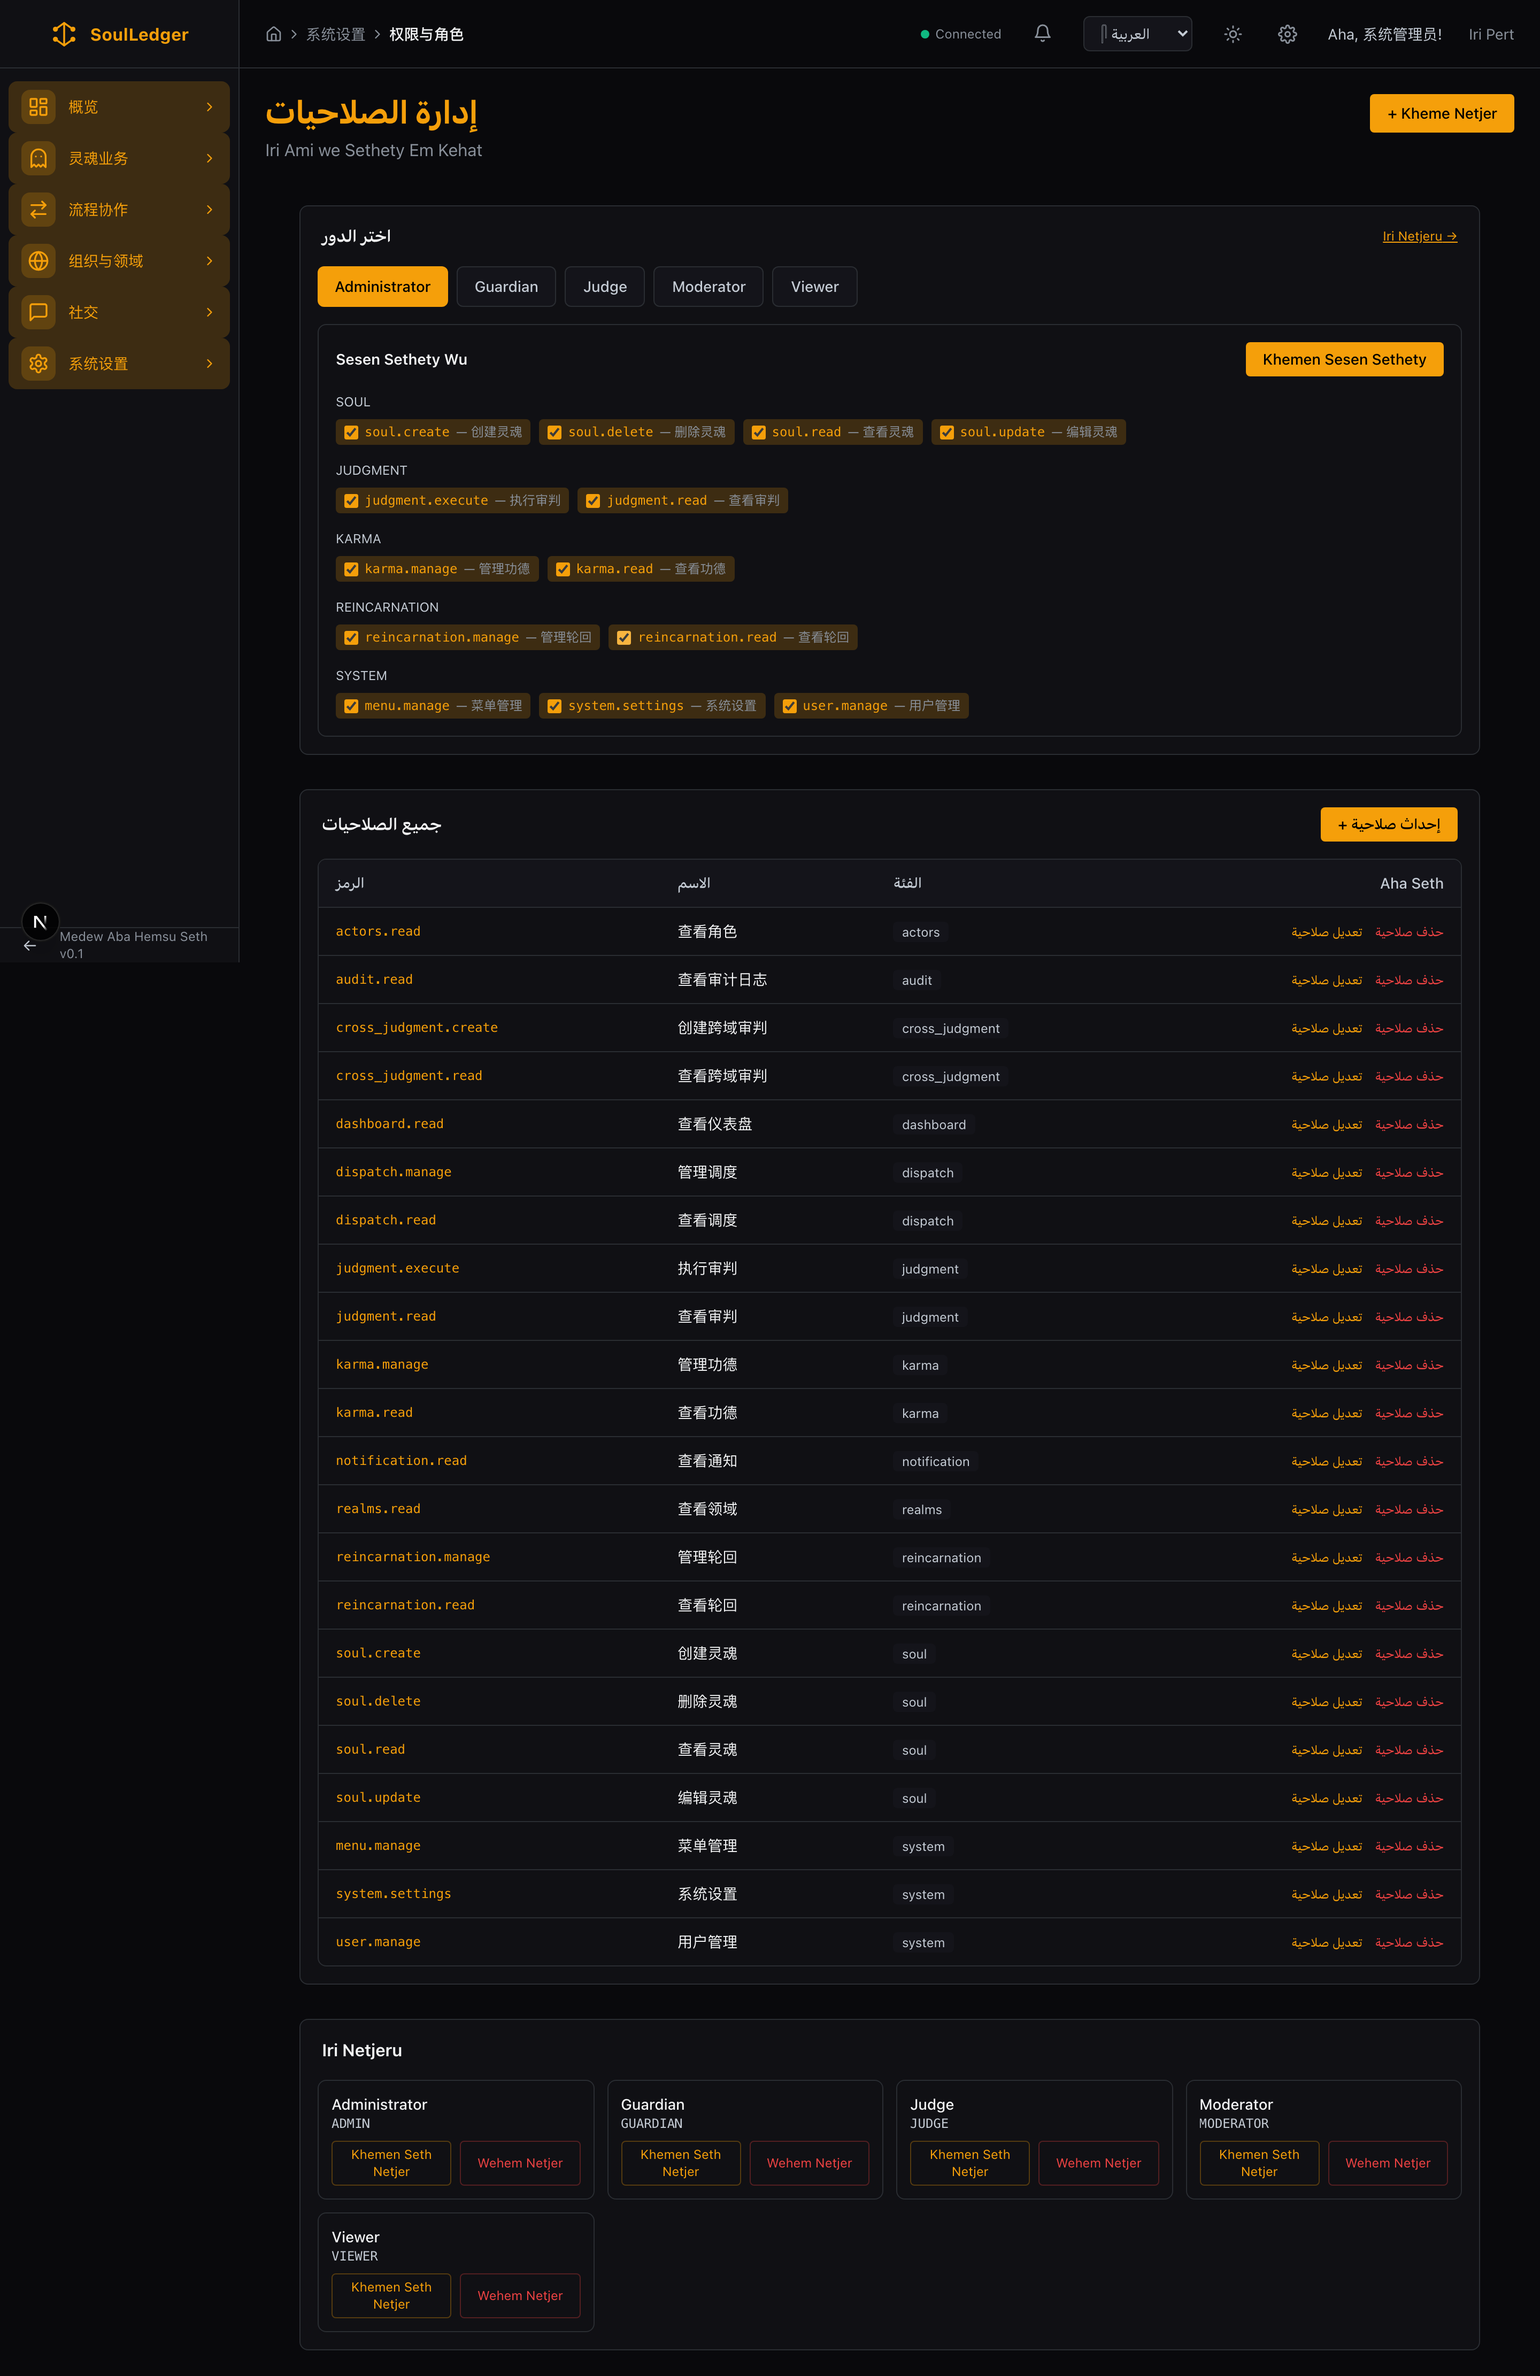
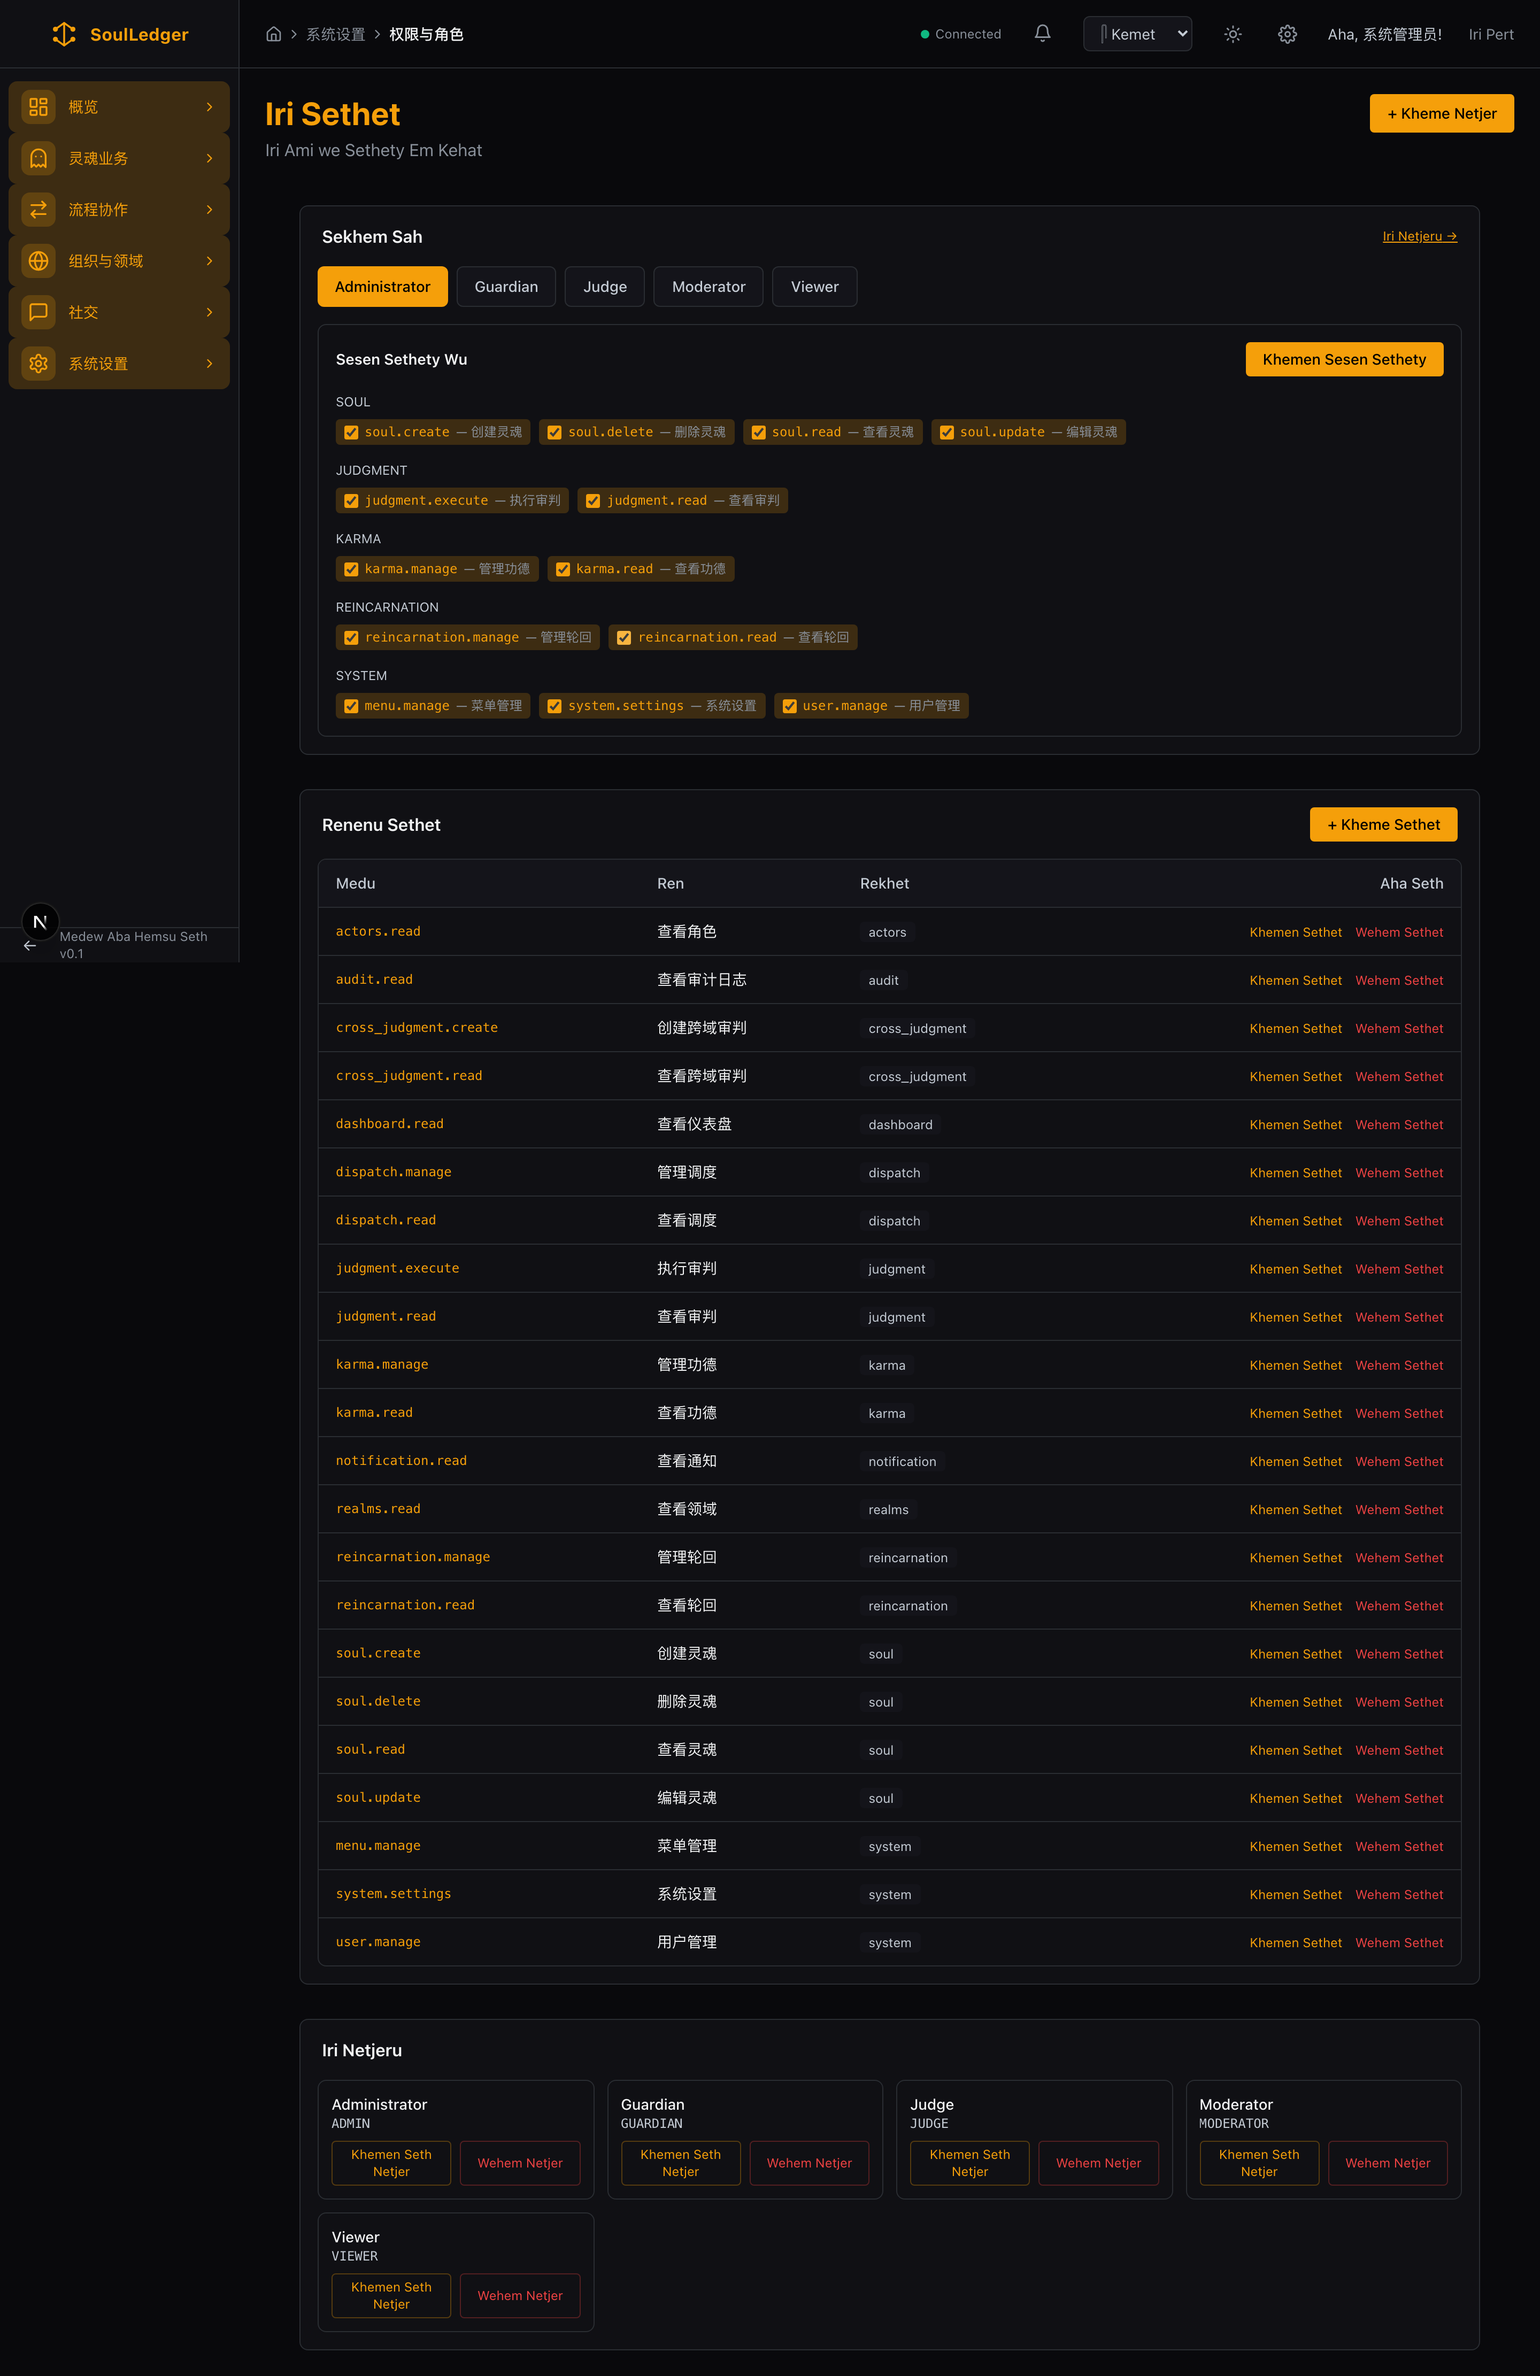
fix(i18n): put the egy locale back to Egyptian
41 of the 886 egy strings were Arabic — and they were the high-traffic ones:
close, cancel, save, login, user profile, menu management, and most of the
permissions screen. The locale label read 𓋴 العربية, literally "Arabic".

Arabic reached Egypt around 1400 years after the period this locale evokes,
so the strings were both wrong and right-to-left inside a left-to-right
layout. They now use the transliteration the other 842 entries already
established — Ren for name, Medu for code, Sethet for permission, Iri X for
managing X, Ma Rekhyu for none found, renu for "e.g." — with a few authentic
additions where the bundle had no word yet: Wat (wꜣt, road) for path, Tut
(twt, image) for icon, It (jt, father) for parent, Ankh for active, Khetem
(ḫtm, seal) for close, Serudj (srwḏ, make firm) for save.

Label is now 𓋴 Kemet, what ancient Egypt called itself.

All three bundles still carry the same 886 keys with matching placeholders,
and no Arabic remains. The design handoff is updated: the bidi problem it
described is gone rather than designed around, and the table captures are
re-taken.

diff --git a/frontend/src/contexts/I18nContext.tsx b/frontend/src/contexts/I18nContext.tsx
@@ -16,7 +16,10 @@ const messages: Record<Locale, Record<string, unknown>> = {
 export const LOCALE_LABELS: Record<Locale, string> = {
   "zh-Hans": "简体中文",
   en: "English",
-  egy: "𓋴 العربية",
+  // Kemet ("the black land") is what ancient Egypt called itself. This label
+  // used to read "𓋴 العربية" — literally "Arabic" — which is a language that
+  // reached Egypt some 1400 years after the period this locale evokes.
+  egy: "𓋴 Kemet",
 };
 
 const LOCALE_COOKIE = "soulledger-locale";

diff --git a/docs/design-handoff/tables/README.md b/docs/design-handoff/tables/README.md
@@ -11,30 +11,24 @@ strings.json              headers + first 12 rows, verbatim
 
 ---
 
-## Correction to the brief
+## Note on a bidi problem that no longer exists
 
-**§5 of BRIEF.md describes `egy` as "a stylised transliterated Ancient Egyptian". That is
-only mostly true, and the exception matters for table design.**
+An earlier version of this file reported that 41 of the 886 `egy` strings were **Arabic**
+— right-to-left — sitting in the highest-traffic UI slots (`common.close`,
+`common.cancel`, `common.save`, `auth.login`, `nav.user_profile`, `menus.title`), and
+that the locale's own label read `𓋴 العربية`, literally "Arabic". The conclusion at the
+time was that the component set would have to survive right-to-left runs inside a
+left-to-right grid.
 
-41 of the 886 `egy` strings (4.6%) are **Arabic**, not transliteration — and they are
-concentrated in the highest-traffic UI strings:
+**That has been fixed rather than designed around.** Arabic reached Egypt roughly 1400
+years after the period this locale evokes, so it was simply wrong. All 41 strings are now
+transliterated Egyptian consistent with the rest of the bundle, and the locale label is
+`𓋴 Kemet` — what ancient Egypt called itself.
 
-| key | value |
-|---|---|
-| `common.close` | إغلاق |
-| `common.cancel` | إلغاء |
-| `common.save` | حفظ |
-| `auth.login` | تسجيل الدخول |
-| `nav.user_profile` | ملف المستخدم |
-| `menus.title` | إدارة القائمة |
-
-The locale's own display label is `𓋴 العربية` — hieroglyph plus the Arabic word for
-"Arabic". Three strings also carry hieroglyphic characters.
-
-So `egy` is not one script running long. It is **Latin transliteration, Arabic, and
-hieroglyphs in the same bundle**, and Arabic is right-to-left. Whether that is intended
-is an open question on our side, but it is what ships today, so the component set has to
-survive it.
+`egy` is now what §5 of the brief always claimed: Latin transliteration throughout, with
+three strings carrying hieroglyphs as ornament. **No RTL anywhere.** The captures in this
+directory are post-fix. If you already sketched around bidirectional text, you can drop
+it.
 
 ---
 
@@ -46,15 +40,12 @@ survive it.
 |---|---|---|
 | zh-Hans | 代码 \| 名称 \| 分类 \| 操作 | 8 |
 | en | Code \| Name \| Category \| Action | 22 |
-| egy | الرمز \| الاسم \| الفئة \| Aha Seth | 23 |
-
-Three of the four `egy` headers are Arabic; the fourth is transliteration. The action
-cells are Arabic too (`تعديل صلاحية` / `حذف صلاحية`).
+| egy | Medu \| Ren \| Rekhet \| Aha Seth | 21 |
 
 **The row data does not translate.** Permission names come from the database, not the
 message bundles, so `查看角色` and `创建跨域审判` stay Chinese in all three locales. An
-`egy` permissions table therefore renders **Arabic headers over Chinese data with Latin
-identifiers in column one** — three scripts and two directions in one grid.
+`egy` permissions table therefore renders **transliterated headers over Chinese data with
+Latin identifiers in column one** — still two scripts in one grid, just one direction now.
 
 Longest cell per column (characters):
 
@@ -62,7 +53,10 @@ Longest cell per column (characters):
 |---|---|---|---|---|
 | zh-Hans | 21 | 6 | 14 | 8 |
 | en | 21 | 6 | 14 | **32** |
-| egy | 21 | 6 | 14 | 22 |
+| egy | 21 | 6 | 14 | 25 |
+
+Note columns one to three are identical across all three locales — they are database
+content and identifiers. Only the action column moves, and it quadruples.
 
 ### audit — 6 columns, the widest table in the app
 

diff --git a/docs/design-handoff/BRIEF.md b/docs/design-handoff/BRIEF.md
@@ -250,12 +250,13 @@ in every screenshot), English, and `egy` — the Egyptian civilization's theming
 layout assumptions** — Chinese strings are typically 40–60% the width of their English
 equivalents, and `egy` runs longer than both.
 
-`egy` is not one script. Most of it is transliterated Ancient Egyptian in Latin, but
-**41 strings (4.6%) are Arabic — right-to-left — and they are the high-traffic ones**:
-`common.close`, `common.cancel`, `common.save`, `auth.login`, `nav.user_profile`,
-`menus.title`. Three more carry hieroglyphs, and the locale's own label is `𓋴 العربية`.
-Components have to survive Latin, Chinese, Arabic and hieroglyphs in one view, in two
-directions. See `tables/README.md` for what this does to a real table.
+`egy` is transliterated Ancient Egyptian in Latin script throughout, with three strings
+carrying hieroglyphs as ornament and the locale labelled `𓋴 Kemet`. It is left-to-right
+everywhere; there is no bidirectional text in this app.
+
+What does mix is **script, not direction**: database content stays Chinese in every
+locale, so an `egy` table renders transliterated headers over Chinese rows with Latin
+identifiers. See `tables/README.md` for the measured widths.
 
 **Accessibility.** A baseline was just established and must not regress: every form
 control has an accessible name, validation errors are announced via `role="alert"`
